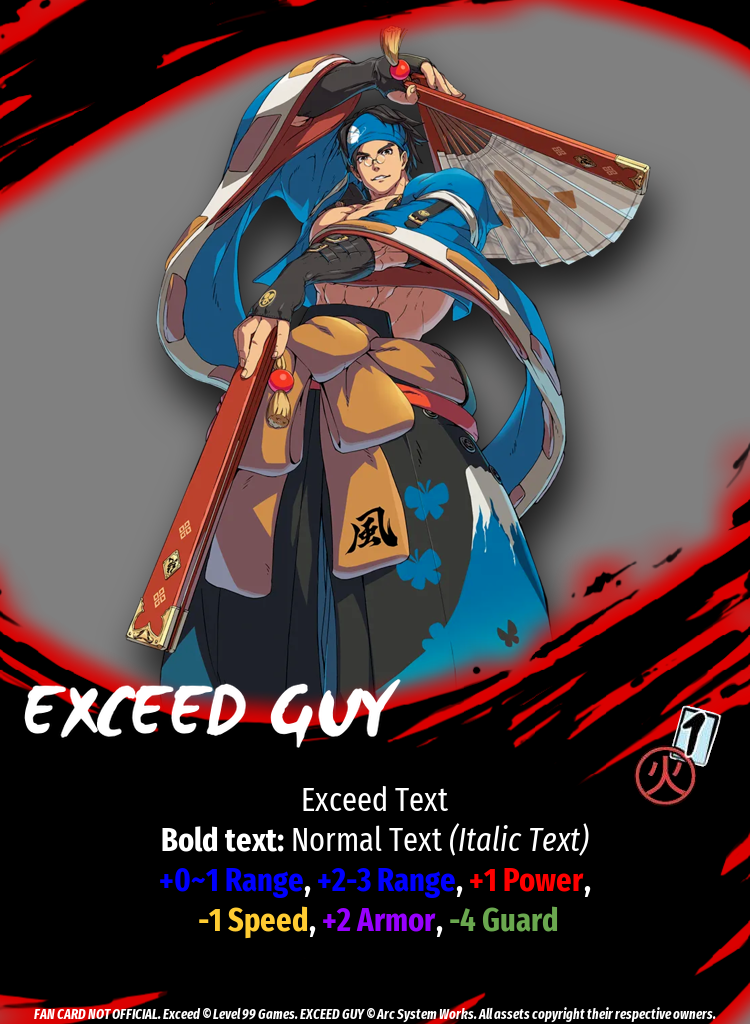
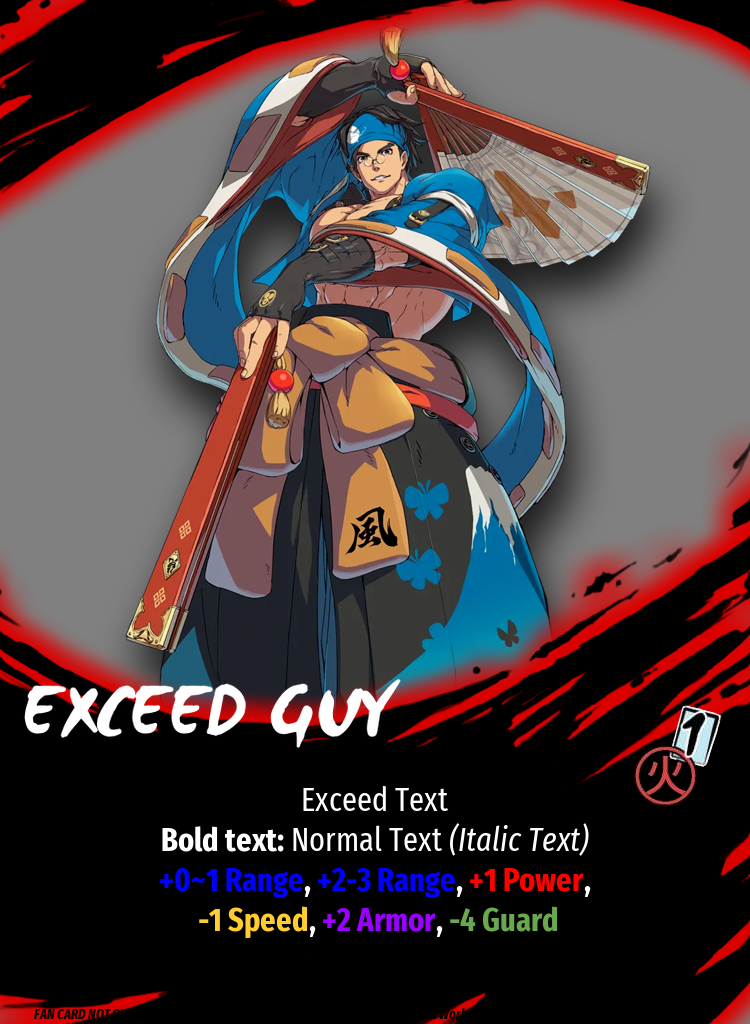
Updated SF template with some data for specials

Changed region(s): [[0.0307, 0.9688, 0.9507, 1.0]]

diff --git a/scripts/template_manager.py b/scripts/template_manager.py
@@ -14,17 +14,27 @@ f.close()
 f = open(config_path)
 config_info = json.load(f)
 f.close()
-card.card_name = "EXCEED GUY"
-card.card_type = "Character"
+card.card_name = "SPECIAL 1"
+card.card_type = "Special"
 card.owner = 'Arc System Works'
 card.copies = 1
 card.text_box = """Exceed Text
 <bold>Bold text:</bold> Normal Text <italic>(Italic Text)</italic>
 <bold><#0000ff>+0~1 Range</#0000ff>, <#0000ff>+2-3 Range</#0000ff>, <#ff0000>+1 Power</#ff0000>,
  <#ffcc32>-1 Speed</#ffcc32>, <#9900ff>+2 Armor</#9900ff>, <#6aa84f>-4 Guard</#6aa84f></bold>"""
-card.cost = ''
-card.secondary_cost = 2
-card.secondary_type = 'Critical'
+card.secondary_text_box = '''Boost 1 Text
+<bold>Bold text:</bold> Normal Text <italic>(Italic Text)</italic>
+This boost is continuous, and has 1 force cost'''
+card.cost = '1'
+card.secondary_cost = '2'
+card.secondary_type = 'force_boost'
+card.secondary_subtype = 'Continuous'
+card.range = '4-5'
+card.power = '3'
+card.speed = '4'
+card.armor = '5'
+card.guard = '6'
+card.secondary_name = 'Boost 3 Name'
 card.template_info = template_info
 card.config_info = config_info
 # End development code
@@ -145,6 +155,7 @@ def text_by_style(image, text, style_dict, badge_dict={}):
 # max_vertical_spacing = largest space between lines, in pixels.
 
 # TODO: Align text
+# TODO: Add the ability to add borders of arbitrary weight (remember to scale borders to dynamic font size)
 def draw_text(canvas, text, font_files, bounding_box, max_font_size=33, max_vertical_spacing=50, align='center', badge_dict={}, default_color='#000000'):
     markdown_objects = parse_markdown(text, default_color)
     text_size = (bounding_box[2] - bounding_box[0], bounding_box[3] - bounding_box[1])
@@ -186,7 +197,7 @@ def generate_character(card):
         composite_images(card_image, template_images["exceed_flip"])
         if card.cost:
             composite_images(card_image, template_images["exceed_flip"])
-            text_by_style(card_image, card.cost, text['stats'])
+            text_by_style(card_image, card.cost, text['exceed_cost'])
         text_by_style(card_image, card.text_box, text['character_effect'], badge_dict=template_info["badges"])
         text_by_style(card_image, card.card_name, text['character_name'])
         text_by_style(card_image, f"<bold>FAN CARD NOT OFFICIAL. Exceed © Level 99 Games. {card.card_name} © {card.owner}. All assets copyright their respective owners.</bold>", text['watermark'])
@@ -205,11 +216,28 @@ def generate_exceed(card):
             composite_images(card_image, template_images["character_critical"])
         if card.cost:
             composite_images(card_image, template_images["exceed_flip"])
-            text_by_style(card_image, card.cost, text['stats'])
+            text_by_style(card_image, card.cost, text['revert_cost'])
         text_by_style(card_image, card.text_box, text['exceed_effect'], badge_dict=template_info["badges"])
         text_by_style(card_image, card.card_name, text['exceed_name'])
         text_by_style(card_image, f"<bold>FAN CARD NOT OFFICIAL. Exceed © Level 99 Games. {card.card_name} © {card.owner}. All assets copyright their respective owners.</bold>", text['watermark'])
         return card_image
+    
+def generate_special(card, special_index):
+    template_images = card.template_info["images"]
+    config_images = card.config_info["images"]
+    text = card.template_info['text']
+
+    with Image.new("RGBA", tuple(card.config_info['image_size_px']),(0,0,0,0)) as card_image:
+        composite_images(card_image, template_images["special_background"])
+        composite_images(card_image, config_images["card_art"][special_index])
+        composite_images(card_image, template_images["special_frame"])
+
+        text_by_style(card_image, card.text_box, text['special_effect'], badge_dict=template_info["badges"])
+        text_by_style(card_image, card.secondary_text_box, text['secondary_effect'], badge_dict=template_info["badges"])
+        text_by_style(card_image, card.card_name, text['special_name'])
+        text_by_style(card_image, card.secondary_name, text['secondary_title'])
+        text_by_style(card_image, f"FAN CARD NOT OFFICIAL. Exceed © Level 99 Games. {card.card_name} © {card.owner}. All assets copyright their respective owners.", text['watermark'])
+    return card_image
 
 
-generate_character(card).save('output/temp.png')
+generate_special(card, 0).save('output/temp.png')
